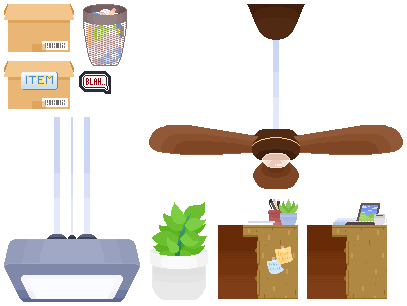
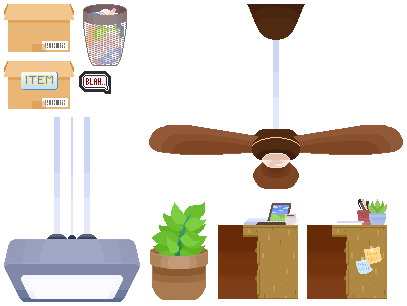
beta version 1.4
CHANGES:

1. updated background and sky sprite to change to day/night over time
2. added an instruction menu
3. changed plant sprite so its easier to see
4. updated cutscene to function with clicks
5. changed background speed to be easier on the eyes

diff --git a/src/scenes/Cutscene.js b/src/scenes/Cutscene.js
@@ -9,8 +9,12 @@ class Cutscene extends Phaser.Scene {
         this.atSmashing = false;
         this.counter = 1;
         this.cameraAngle = 1536;
+        this.clicking = false;
 
         this.cursors = this.input.keyboard.createCursorKeys();
+        this.input.on('pointerup', function () {
+            this.updateCounter();
+        }, this);
 
         this.cameras.main.once("camerafadeoutcomplete", () => {
             game.scene.stop("cutScene");
@@ -19,12 +23,10 @@ class Cutscene extends Phaser.Scene {
     }
 
     update() {
+        //let pointer = this.input.activePointer;
+
         if(Phaser.Input.Keyboard.JustDown(this.cursors.right) && !this.atSmashing) {
-            ++this.counter;
-
-            this.cameras.main.pan(this.cameraAngle, 256, 200);
-
-            this.cameraAngle += 1024;
+            this.updateCounter();
         }
 
         if(this.counter == 9 && !this.atSmashing) {
@@ -34,7 +36,20 @@ class Cutscene extends Phaser.Scene {
         }
     }
 
+    updateCounter() {
+        ++this.counter;
+
+        this.cameras.main.pan(this.cameraAngle, 256, 200);
+
+        this.cameraAngle += 1024;
+        
+        this.clicking = false;
+    }
+
     cutSceneSwitch() {
+
+        this.sound.play("smash");
+
         this.time.addEvent({
             delay: 200,
             callback: () => {

diff --git a/src/scenes/Play.js b/src/scenes/Play.js
@@ -475,18 +475,20 @@ class Play extends Phaser.Scene {
             //capping deskSpeed @ deskSpeedMax
             if(this.obSpeed >= this.obSpeedMax) {
                 //increase deskSpeed
-                this.obSpeed -= 25;
+                this.obSpeed -= 20;
                 //console.log("Speed: " + this.deskSpeed);
 
                 //increase sprite walking speed
                 this.player.anims.setTimeScale(this.n);
                 this.n += 0.3;
 
-                //increase foreground speed
-                ++this.foregroundSpeed;
+                if(this.level%3 == 0) {
+                    //increase foreground speed
+                    ++this.foregroundSpeed;
 
-                //increase background speed
-                ++this.backgroundSpeed;
+                    //increase background speed
+                    ++this.backgroundSpeed;
+                }
             }
 
             if(this.level%this.collectTimer == 0){
@@ -498,7 +500,7 @@ class Play extends Phaser.Scene {
             }
 
             if(this.paperSpeed >= this.paperSpeedMax) {
-                this.paperSpeed -= 50;
+                this.paperSpeed -= 40;
 
                 ++this.foregroundSpeed;
                 ++this.backgroundSpeed;

diff --git a/src/scenes/Menu.js b/src/scenes/Menu.js
@@ -13,15 +13,19 @@ class Menu extends Phaser.Scene {
         }
 
         this.sound.play("menuMusic", musicConfig);
+        this.cursors = this.input.keyboard.createCursorKeys();
         //console.log("in menu scene");
     }
 
     update() {
-        this.cursors = this.input.keyboard.createCursorKeys();
-
         if(this.cursors.space.isDown) {
-            this.scene.start("playScene");
+            game.scene.start("playScene");
+            game.scene.stop("menuScene");
             this.sound.removeByKey("menuMusic");
+        }
+
+        if(Phaser.Input.Keyboard.JustDown(this.cursors.right)) {
+            game.scene.start("instructionScene");
         }
     }
 }

diff --git a/src/scenes/Instruction.js b/src/scenes/Instruction.js
@@ -1,0 +1,20 @@
+class Instruction extends Phaser.Scene {
+    constructor() {
+        super("instructionScene");
+    }
+
+    create() {
+        this.add.image(0, 0, "instructionScreen").setOrigin(0);
+
+        console.log("instruction screen");
+
+        this.cursors = this.input.keyboard.createCursorKeys();
+    }
+    
+    update() {
+        if(Phaser.Input.Keyboard.JustDown(this.cursors.left)) {
+            game.scene.start("menuScene");
+            game.scene.stop("instructionScene");
+        }
+    }
+}

diff --git a/src/scenes/Load.js b/src/scenes/Load.js
@@ -10,6 +10,7 @@ class Load extends Phaser.Scene {
         this.load.image("gameOver", "gameOver.png");
         this.load.image("pauseScreen", "pausebg.png");
         this.load.image("mainMenu", "menu.png");
+        this.load.image("instructionScreen", "instruction.png");
         this.load.image("score", "score.png");
         this.load.image("escButton", "esc.png");
         this.load.image("pauseButton", "pause.png");

diff --git a/src/scenes/GameOver.js b/src/scenes/GameOver.js
@@ -36,6 +36,7 @@ class GameOver extends Phaser.Scene {
         if(Phaser.Input.Keyboard.JustDown(this.keyMenu)) {
             game.scene.stop("gameOverScene");
             game.scene.stop("playScene");
+            game.scene.stop("instructionScene");
             game.scene.stop("cutScene");
             game.scene.start("menuScene");
             game.settings.gameOver = false;

diff --git a/index.html b/index.html
@@ -13,6 +13,7 @@
     <script src="src/scenes/Pause.js"></script>
     <script src="src/scenes/Play.js"></script>
     <script src="src/scenes/Cutscene.js"></script>
+    <script src="src/scenes/Instruction.js"></script>
     <script src="src/scenes/Menu.js"></script>
     <script src="src/scenes/Load.js"></script>
     <script src="src/main.js"></script>

diff --git a/src/main.js b/src/main.js
@@ -27,7 +27,7 @@ let config = {
         }
     },
 
-    scene: [Load, Menu, Cutscene, Play, Pause, GameOver],
+    scene: [Load, Cutscene, Menu, Instruction, Play, Pause, GameOver],
 };
 
 let game = new Phaser.Game(config);
